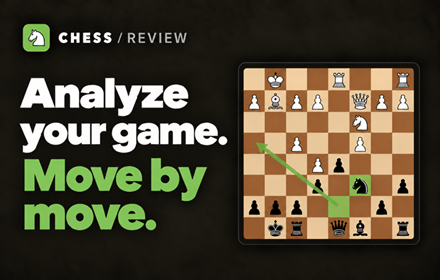
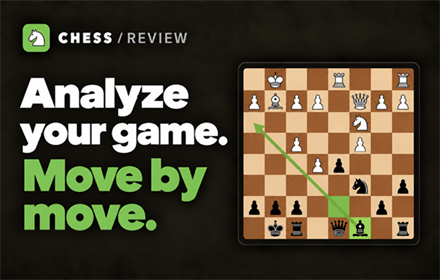
marketing: correct bishop moves in promo tiles
Highlight the bishop, clear its diagonal and align the move arrows in both store promo tiles. Remove the marquee accuracy overlay and record the image edit prompts and validation.

diff --git a/marketing/chrome-web-store/promo tiles/README.md b/marketing/chrome-web-store/promo tiles/README.md
@@ -1,0 +1,37 @@
+# Chrome Web Store promo tiles
+
+- `small-promo-tile-440x280.png`: 440 x 280 PNG.
+- `marquee-promo-tile-1400x560.png`: 1400 x 560 PNG.
+
+Both tiles highlight the black bishop on c8 instead of the knight on c6.
+The e6 pawn is removed and the arrow follows the clear c8-h3 diagonal.
+The empty d7 highlight is retained. The marquee's accuracy overlay is removed.
+
+## Edit method and prompts
+
+Edited independently by two agents with the built-in imagegen tool, using each
+original PNG as its edit target. The generated outputs were resampled with
+System.Drawing HighQualityBicubic to the exact export dimensions. Both final
+PNGs were decoded and visually checked for text, layout, highlights, diagonal,
+and panel removal. Generative editing and resampling can change fine raster
+details beyond the requested corrections.
+
+Small tile prompt:
+
+> Use case: precise-object-edit. Edit the supplied small promo tile. Preserve
+> text, logo, composition, border, board size and position, other pieces, wood
+> tones, green palette and dark texture. Restore the normal square under the c6
+> knight, remove the e6 black pawn, highlight the c8 bishop green, and retain the
+> empty d7 green square. Draw one straight translucent green arrow from c8 to h3
+> through d7, e6, f5 and g4. Preserve CHESS / REVIEW, Analyze your game., and Move
+> by move. No new text or watermark.
+
+Marquee prompt:
+
+> Use case: precise-object-edit. Edit the supplied marquee while preserving
+> composition, text, logo, typography, smoky background, and board location.
+> Remove the entire accuracy overlay and restore the underlying board and
+> background. Remove the e6 black pawn. Restore the normal tan square beneath
+> the c6 black knight. Highlight the c8 black bishop green and retain d7 green.
+> Replace the arrow with a straight translucent green c8-h3 bishop diagonal.
+> Preserve all remaining pieces and styling. No extra words or watermark.
